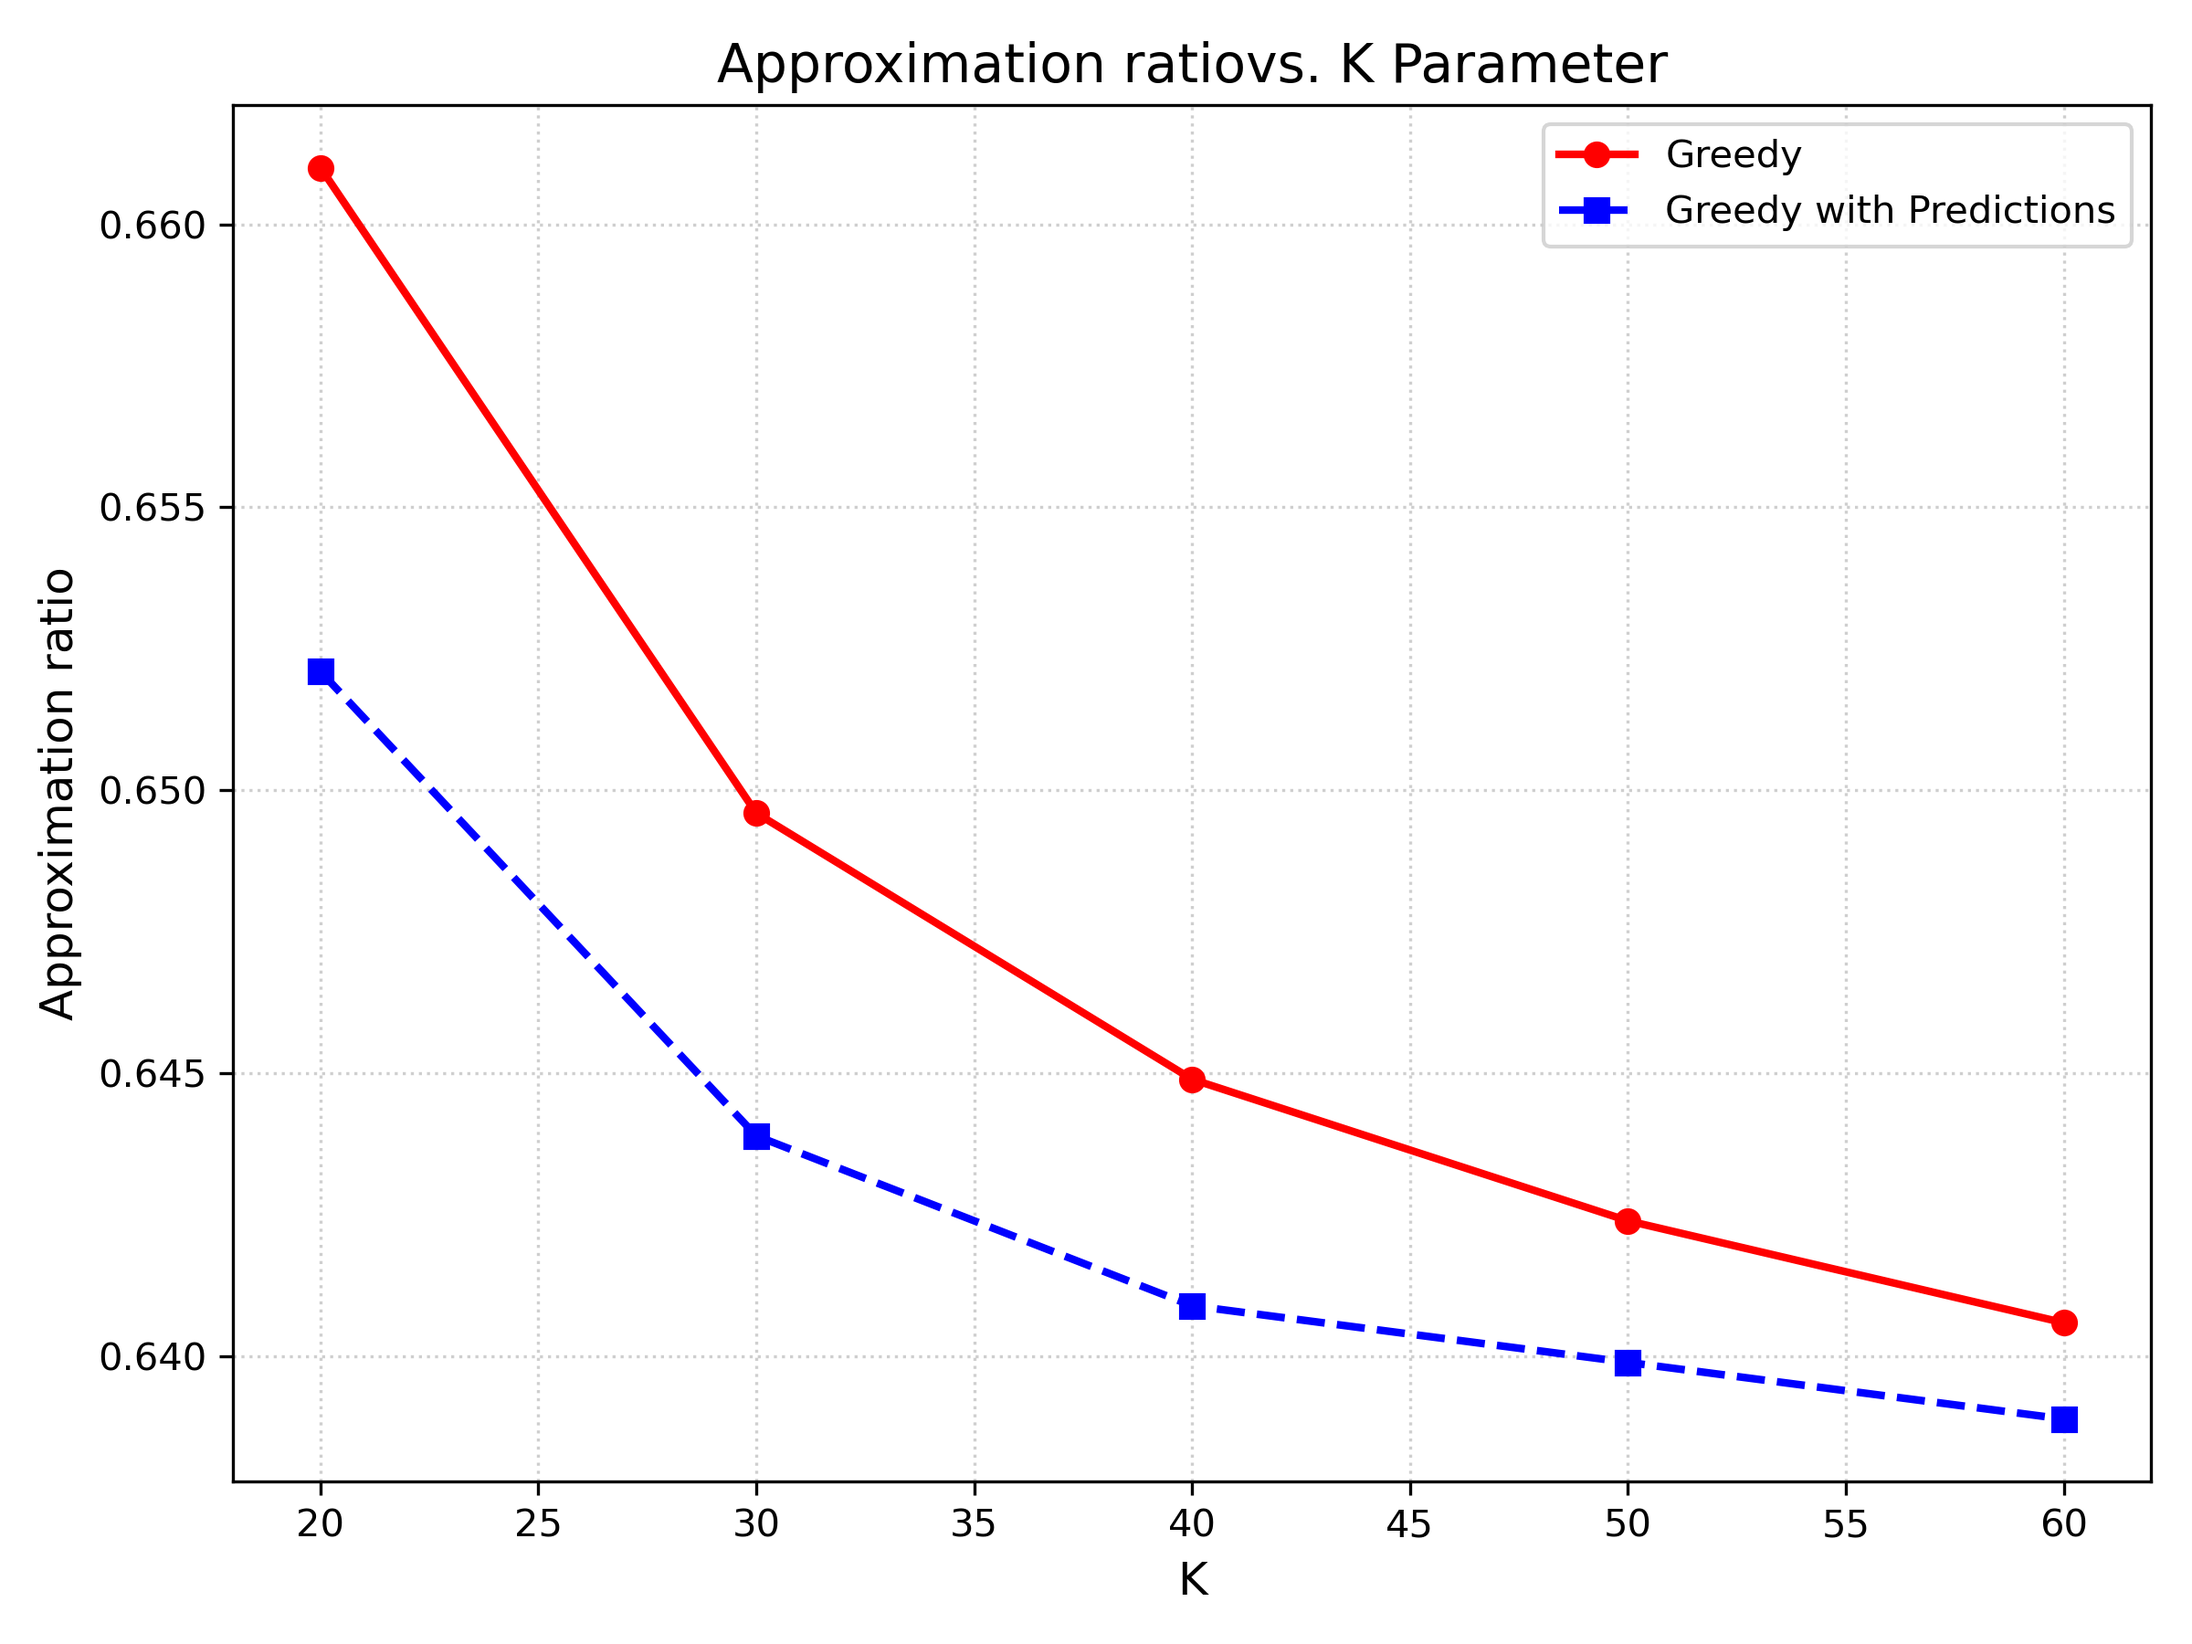
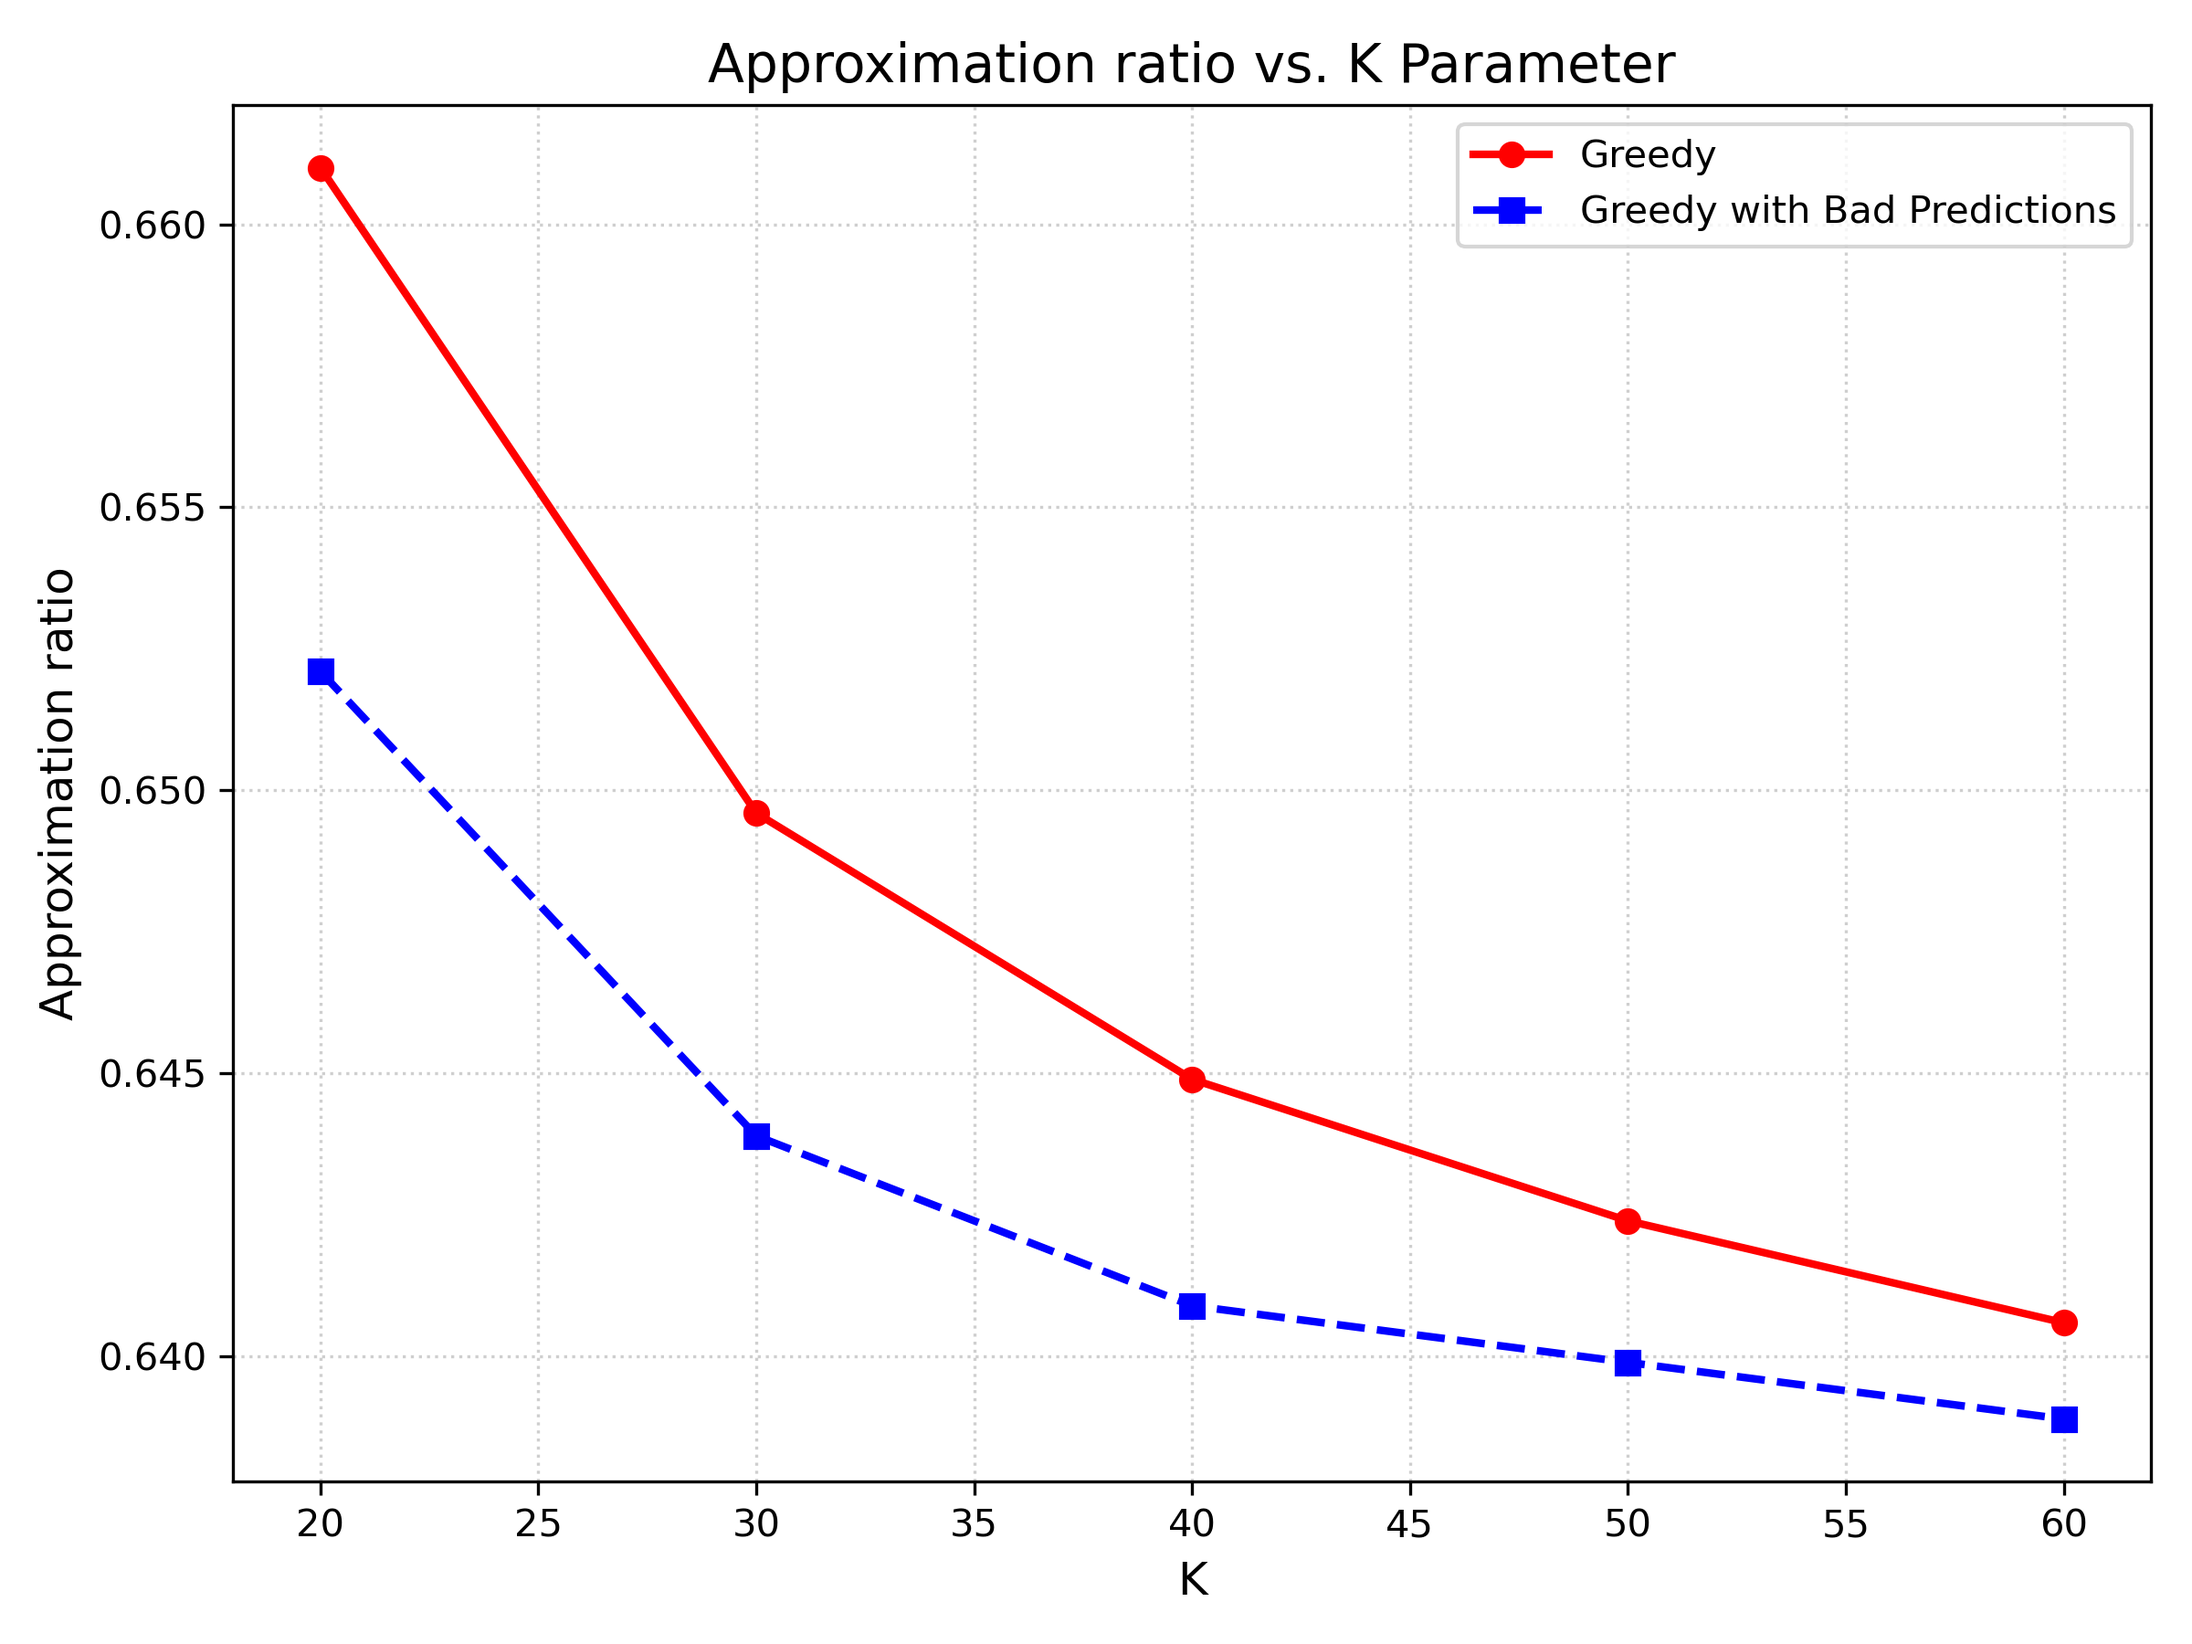
Before cleaning up code

Changed region(s): [[0.3125, 0.0311, 0.875, 0.1556]]

diff --git a/OptimalHints/python/plotter.py b/OptimalHints/python/plotter.py
@@ -6,7 +6,8 @@ k_values = [20, 30, 40, 50, 60]  # The X-axis (K)
 
 # The Y-axis values for the first line
 performance_greedy = [0.661, 0.6496, 0.6449, 0.6424, 0.6406]
-performance_mod_greedy = [0.800, 0.7929, 0.7921, 0.7903, 0.7888]
+performance_mod_greedy_opt = [0.800, 0.7929, 0.7921, 0.7903, 0.7888]
+performance_mod_greedy_bad = [0.6521, 0.6439, 0.6409, 0.6399, 0.6389]
 
 # The Y-axis values for the second line
 
@@ -15,15 +16,18 @@ plt.figure(figsize=(8, 6))
 
 # Plot Line 1 (Method A)
 plt.plot(k_values, performance_greedy, 
-         marker='o', linestyle='-', color='red', label='Greedy', linewidth=2)
+         marker='o', linestyle='-', color='blue', label='Greedy', linewidth=2)
 
 # Plot Line 2 (Method B)
-plt.plot(k_values, performance_mod_greedy, 
-         marker='s', linestyle='--', color='blue', label= 'Greedy with Optimal Predictions', linewidth=2)
+plt.plot(k_values, performance_mod_greedy_opt, 
+         marker='s', linestyle='--', color='green', label= 'Greedy with Optimal Hints', linewidth=2)
+
+plt.plot(k_values, performance_mod_greedy_bad, 
+         marker='s', linestyle='--', color='red', label= 'Greedy with Bad Hints', linewidth=2)
 
 # 3. Add Labels, Title, and Legend
 plt.xlabel('K', fontsize=12)
-plt.ylabel('Approximation ratio', fontsize=12)
+plt.ylabel('Average Median of Approximation ratio', fontsize=12)
 plt.title('Approximation ratio vs. K Parameter', fontsize=14)
 plt.legend()
 plt.grid(True, linestyle=':', alpha=0.6)
@@ -31,42 +35,42 @@ plt.grid(True, linestyle=':', alpha=0.6)
 # 4. Save and Show
 plt.tight_layout()
 # plt.ylim(0, 1.0)
-plt.savefig('hints_all_optimal.png', dpi=300)
+plt.savefig('ks_app_ratio.png', dpi=300)
 plt.show()
 
 ##################################################################################
 
-k_values = [20, 30, 40, 50, 60]  # The X-axis (K)
+# k_values = [20, 30, 40, 50, 60]  # The X-axis (K)
 
-# The Y-axis values for the first line
-performance_greedy = [0.6610, 0.6496, 0.6449, 0.6424, 0.6406]
+# # The Y-axis values for the first line
+# performance_greedy = [0.6610, 0.6496, 0.6449, 0.6424, 0.6406]
 
-# The Y-axis values for the second line
-performance_mod_greedy = [0.6521, 0.6439, 0.6409, 0.6399, 0.6389]
+# # The Y-axis values for the second line
+# performance_mod_greedy = [0.6521, 0.6439, 0.6409, 0.6399, 0.6389]
 
-# 2. Create the Plot
-plt.figure(figsize=(8, 6))
+# # 2. Create the Plot
+# plt.figure(figsize=(8, 6))
 
-# Plot Line 1 (Method A)
-plt.plot(k_values, performance_greedy, 
-         marker='o', linestyle='-', color='red', label='Greedy', linewidth=2)
+# # Plot Line 1 (Method A)
+# plt.plot(k_values, performance_greedy, 
+#          marker='o', linestyle='-', color='red', label='Greedy', linewidth=2)
 
-# Plot Line 2 (Method B)
-plt.plot(k_values, performance_mod_greedy, 
-         marker='s', linestyle='--', color='blue', label= 'Greedy with Bad Predictions', linewidth=2)
+# # Plot Line 2 (Method B)
+# plt.plot(k_values, performance_mod_greedy, 
+#          marker='s', linestyle='--', color='blue', label= 'Greedy with Bad Predictions', linewidth=2)
 
-# 3. Add Labels, Title, and Legend
-plt.xlabel('K', fontsize=12)
-plt.ylabel('Approximation ratio', fontsize=12)
-plt.title('Approximation ratio vs. K Parameter', fontsize=14)
-plt.legend()
-plt.grid(True, linestyle=':', alpha=0.6)
+# # 3. Add Labels, Title, and Legend
+# plt.xlabel('K', fontsize=12)
+# plt.ylabel('Approximation ratio', fontsize=12)
+# plt.title('Approximation ratio vs. K Parameter', fontsize=14)
+# plt.legend()
+# plt.grid(True, linestyle=':', alpha=0.6)
 
-# 4. Save and Show
-plt.tight_layout()
-# plt.ylim(0, 1.0)
-plt.savefig('100_bad_predictions.png', dpi=300)
-plt.show()
+# # 4. Save and Show
+# plt.tight_layout()
+# # plt.ylim(0, 1.0)
+# plt.savefig('100_bad_predictions.png', dpi=300)
+# plt.show()
 
 
 
@@ -93,20 +97,20 @@ plt.plot(per_values, performance_greedy,
 
 # Plot Line 2 (Method B)
 plt.plot(per_values, performance_mod_greedy_optANDgreedy, 
-         marker='s', linestyle='-.', color='blue', label= 'Greedy with all Type of Predictions', linewidth=2)
+         marker='s', linestyle='-.', color='blue', label= 'Greedy with all Type of Hints', linewidth=2)
 
 plt.plot(per_values, performance_mod_greedy_optOnly, 
-         marker='^', linestyle=':', color='green', label= 'Greedy with only Optimal Predictions', linewidth=2)
+         marker='^', linestyle=':', color='green', label= 'Greedy with Optimal and Bad Hints', linewidth=2)
 
 # 3. Add Labels, Title, and Legend
 plt.xlabel('Pr. of getting a bad prediction', fontsize=12)
-plt.ylabel('Approximation ratio(Accuracy)', fontsize=12)
+plt.ylabel('Average Median of Approximation ratio', fontsize=12)
 plt.title('Approximation ratio vs. Pr. of getting a bad predictions', fontsize=14)
 plt.legend()
 plt.grid(True, linestyle=':', alpha=0.6)
 
 # 4. Save and Show
 plt.tight_layout()
-plt.ylim(0, 1.0)
-plt.savefig('mixed_predictions.png', dpi=300)
+# plt.ylim(0, 1.0)
+plt.savefig('pr_vs_app_ratio.png', dpi=300)
 plt.show()
